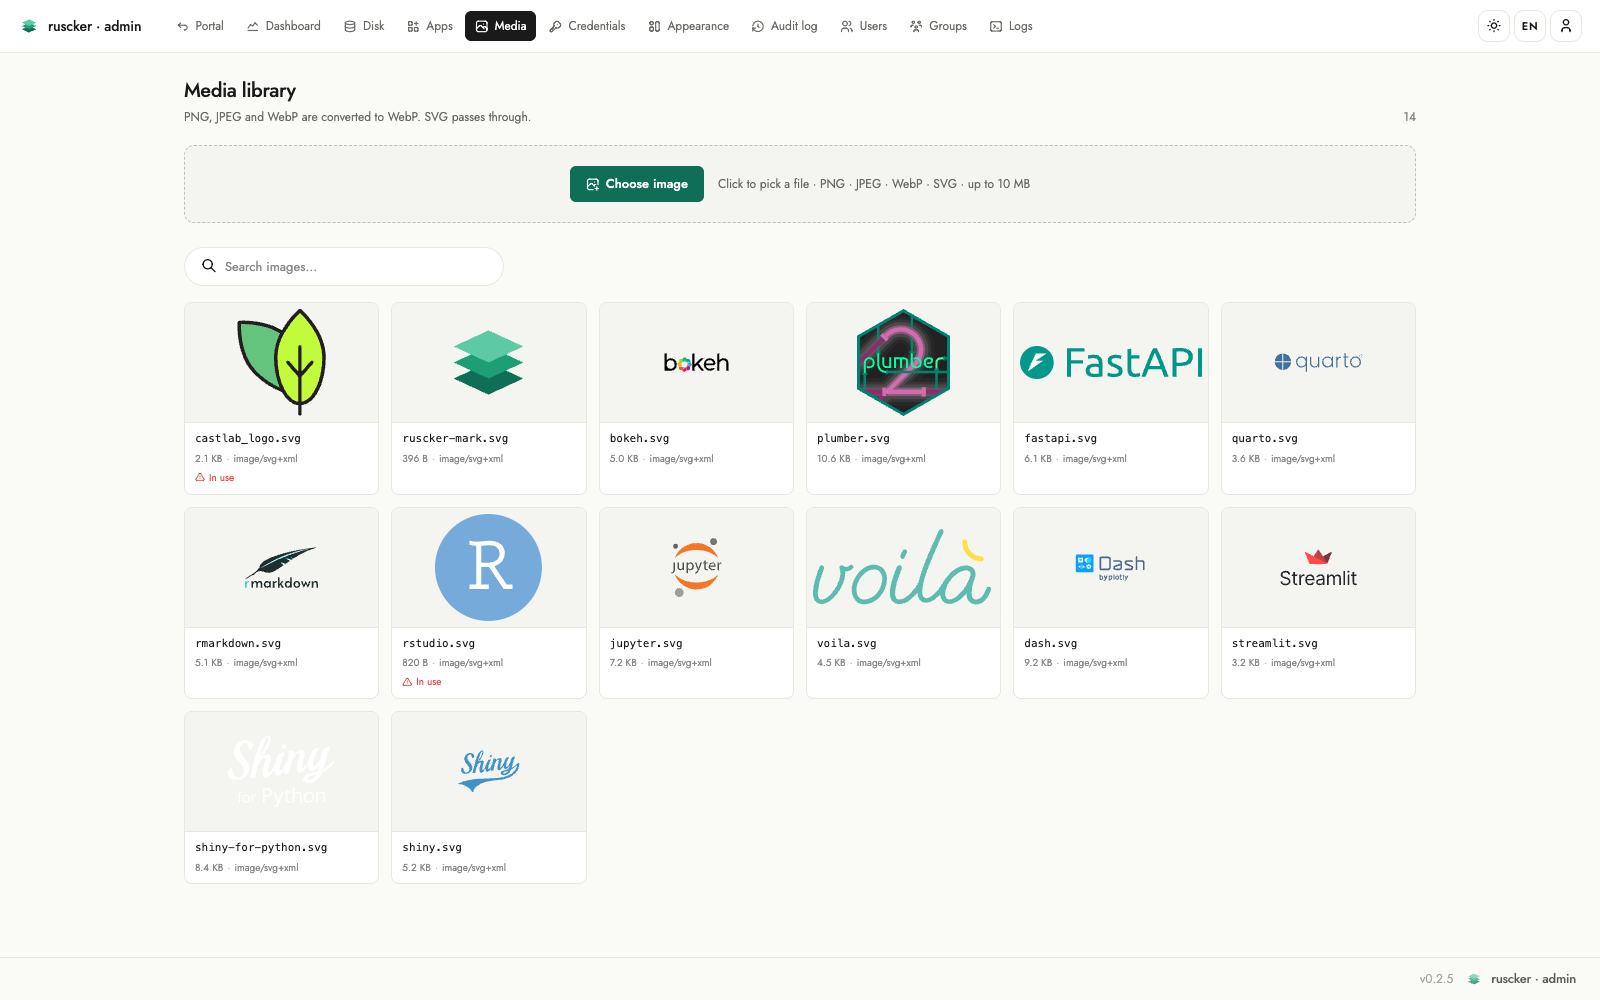
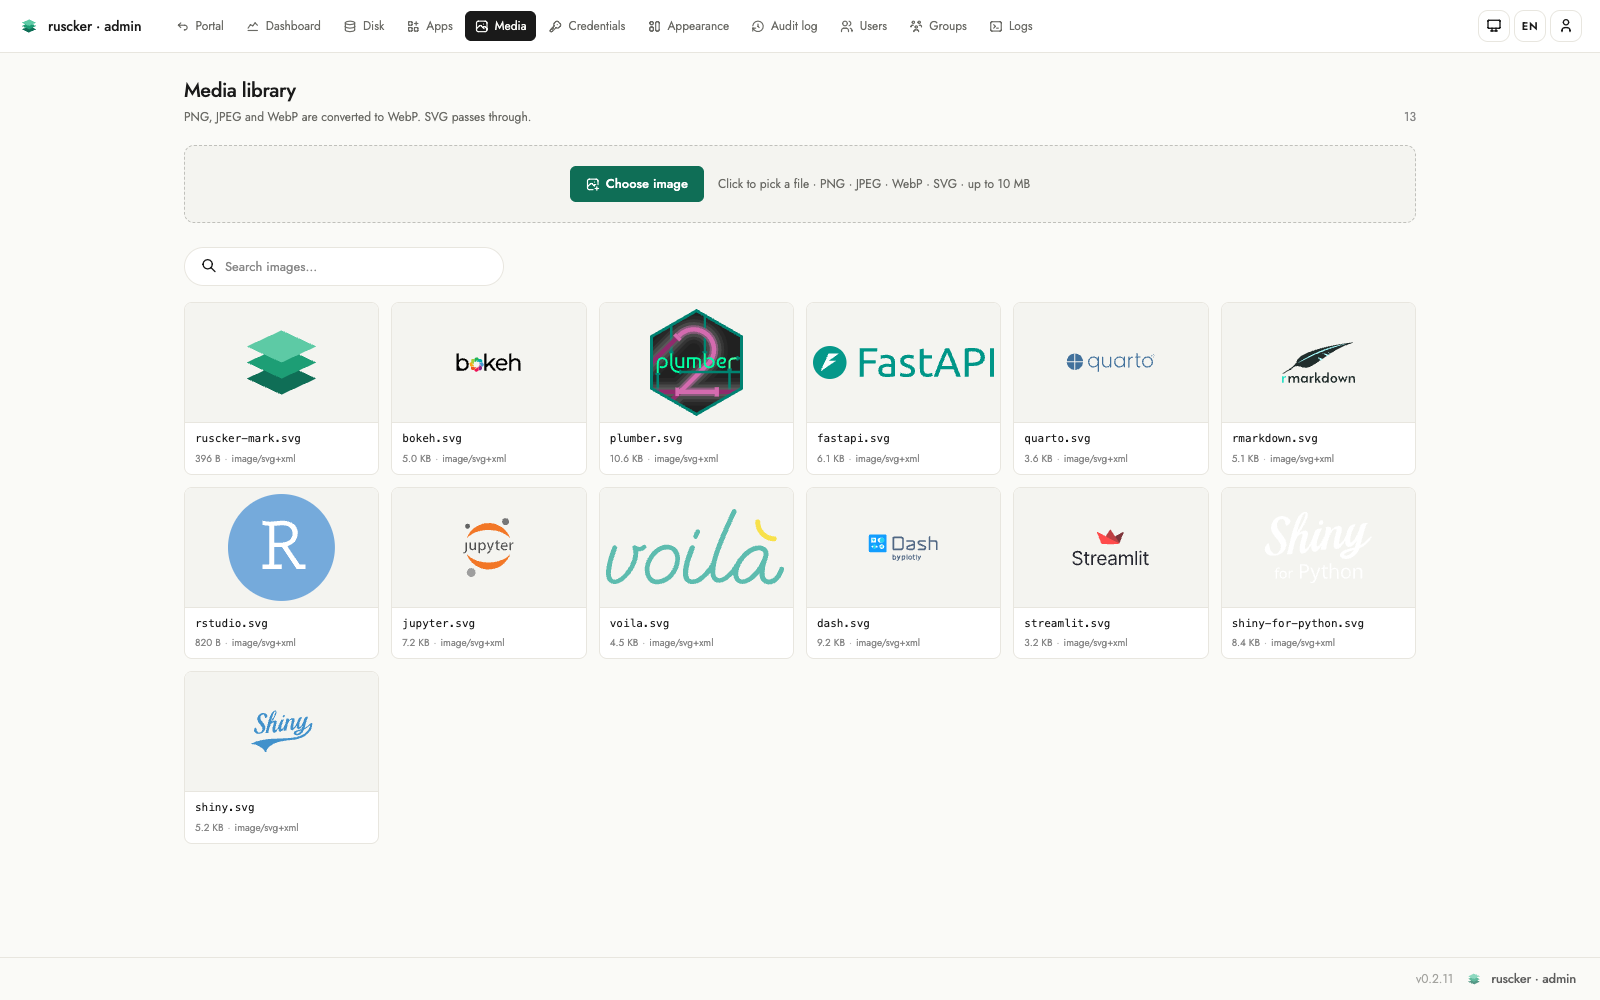
docs: refresh the admin guide + README + all 8 screenshots for v0.2.11
The guide's Apps/Groups/Appearance/Blocks sections catch up with the
v0.2.6–v0.2.11 admin work:

- Apps: the archive toggle (in-place, no scroll jump, row keeps its
  position) and the list delete with confirmation.
- Groups: the public-apps logo chips with the per-type tint cue.
- Appearance: rewritten to the handoff card structure — Logos with the
  inline main-logo picker, the explicit Preset|Solid|Gradient header
  background with per-theme values, the per-theme default card cover
  with the angle dial and Inherited⇄Own pill, Theme & colors with the
  brand swatches and palette mini-previews, the layout tiles, the
  preview's light/dark switch and the Restore-defaults button.
- Blocks: inline editing at the bottom of the Appearance page, slot
  counters and the anchored return.

README: the admin-panel bullet mentions archive/restore and per-theme
landing styling; the test count moves to 400+; the Apps screenshot alt
covers the new actions.

All 8 screenshots recaptured against a v0.2.11 build (light theme,
1600×1000, EN, fresh showcase catalog; the dashboard shows two live
replicas). No hardcoded version strings added outside news.md.

diff --git a/book/src/admin.md b/book/src/admin.md
@@ -72,7 +72,16 @@ has a **featured star** next to the actions: click it to toggle whether
 the app appears in the landing page's *Featured* carousel, inline,
 without opening the editor (solid = featured).
 
-![Apps table: id, name, kind and state columns, plus updated/version, and an Actions column where each row has the featured star (solid amber when featured) next to the edit and duplicate buttons.](images/admin-apps.png)
+The Actions column also carries an **archive toggle** and a **delete**
+button. Archiving deactivates the app in place — its card leaves the
+public portal but the configuration, history and audit trail stay, and
+one more click brings it back. The toggle updates the row right where
+it is (no reload, no scroll jump, and the row keeps its position in the
+list — archiving doesn't count as an "update"). Delete asks for
+confirmation, stops the app's containers and is audited; apps defined
+in the `serve --config` YAML stay read-only here.
+
+![Apps table: id, name, kind and state columns, plus updated/version, and an Actions column where each row has the featured star, edit and duplicate buttons, the archive toggle and a delete button.](images/admin-apps.png)
 
 The add/edit form walks down the page in the order you think about an
 app: **Identity** (id, name, subject), **Kind** (app container /
@@ -123,6 +132,11 @@ with its members and the apps it gates, and lets you edit them in place:
 Edits touch the database-managed users and apps. An app defined in the
 `serve --config` YAML stays read-only here (edit the file for those).
 
+Below the groups, **Public apps** lists every ungated app as a logo
+chip — the thumbnail sits on the catalog's per-type tint colour, so the
+app's kind reads at a glance — with a globe mark; clicking a chip opens
+that app's editor.
+
 ### Media
 Upload images (PNG/JPEG → WebP), served at `/assets/img/<file>`. These
 are the card logos and covers.
@@ -153,40 +167,59 @@ There is no need to inline registry passwords in a spec.
 
 ### Appearance
 Customise the public landing without a custom template. Every control
-is mirrored instantly in a **live portal preview** on the right:
+is mirrored instantly in a **live portal preview** on the right — the
+preview has its own **☀/🌙 switch** so you can inspect both themes
+without changing the saved default, and the action bar carries a
+**"Restore defaults"** button (with confirmation) that resets the
+styling while keeping titles, logos, texts, SEO, custom CSS and HTML
+blocks:
 
-![Appearance editor: control cards for header, branding, catalog layout and visible sections on the left, with a live portal preview pane on the right.](images/admin-appearance.png)
+![Appearance editor: control cards for header texts, logos, header style, catalog cards, theme and layout on the left, with a live portal preview pane (with its own light/dark switch) on the right.](images/admin-appearance.png)
 
-- **Header & branding** — header style presets, a solid/gradient
-  background builder, brand-colour swatches per theme, a default theme
-  (light / dark / auto) for first-time visitors, and the header logo's
-  mode, size and margin.
-- **Catalog** — grid, list or sections layout; comfortable or compact
-  density; a default **card-cover** builder (auto / solid / gradient)
-  for cards without their own cover; toggles for the search box and
-  filter chips.
-- **Colours + intro** — header background/foreground, a per-locale
-  intro paragraph, and an editable footer.
+- **Header** — the portal title, subtitle and footer texts.
+- **Logos** — the **main header logo** in one place: built-in mark,
+  symbol-only, or a custom image picked right there from the Media
+  library, sized by its own sliders. Additional logos go in the header
+  centre/right or the footer, each with alignment, an optional
+  click-through link and a height.
+- **Header style** — the background is one explicit choice: **Preset**
+  (flat / soft / bold tints), **Solid** or **Gradient** — and the
+  custom modes carry separate **light and dark values** (dark inherits
+  light until you set it). Text colour is per-theme too.
+- **Catalog cards** — the default cover behind cards that have no
+  cover of their own: **Auto** keeps each type's tint colour (zero
+  configuration), or paint a **solid / gradient** per theme, with a
+  live cover preview, a draggable **angle dial** and an explicit
+  *Inherited ⇄ Own* pill on the dark side.
+- **Theme & colors** — the default theme (light / dark / auto) for
+  first-time visitors, brand-colour quick swatches (plus a custom
+  pick), and full light/dark palettes with a live mini-preview of
+  background, text and accent.
+- **Catalog layout** — grid, list or sections as large icon tiles,
+  plus a comfortable/compact density bar.
+- **Visible sections** — toggles for the search box, the filter chips
+  and the *Featured* carousel.
+- **Content** — a per-locale intro paragraph (rendered full-width and
+  justified on the portal) and the footer text.
 - **SEO & sharing** — page title, meta description, `og:image`, with a
   live Google-style **search-result preview** that updates as you type.
   The landing `<head>` emits `description` + `og:*` + `twitter:card`.
 - **Analytics & custom code** — pick a provider (GA4 / Plausible /
   Matomo) and paste just the site key — Ruscker builds the snippet and
   widens **only the landing's** CSP for that provider's origins. A raw
-  HTML field remains as the escape hatch for anything else. The custom-CSS and analytics/HTML fields are
-  **syntax-highlighted code editors** (the custom HTML blocks editor too).
-- **Logos** — add logos to the landing **header** or **footer** slot.
-  Each logo has its own **alignment** (left / center / right), an optional
-  **click-through link**, and a **height** in pixels. Multiple logos
-  sharing a slot and alignment render side by side. Images come from the
-  Media library — pick one with the same modal picker used in the spec
-  form.
+  HTML field remains as the escape hatch for anything else. The
+  custom-CSS and analytics/HTML fields are **syntax-highlighted code
+  editors** (the custom HTML blocks editor too).
 
 ### Blocks
 Custom HTML blocks rendered in the landing `top` (after the header) and
-`bottom` (after the card grid) slots. Create/edit/delete, enable/
-disable, and reorder within a slot with the ↑/↓ buttons. Each block can
-declare CSP origins for any third-party content it embeds.
+`bottom` (after the card grid) slots, edited **inline** at the bottom
+of the Appearance page: "+ New block" (or a row's pencil) expands the
+editor right there — name, a Top/Bottom position switch, a
+syntax-highlighted HTML editor, CSP origins for any third-party content
+it embeds, and an active toggle. Rows reorder by drag-and-drop or the
+↑/↓ buttons, each slot shows a block counter, and after saving you land
+back at the blocks section.
 
 > Block and analytics HTML is rendered **verbatim** on the public
 > landing. It's admin-only input — the intentional escape hatch — so

diff --git a/README.md b/README.md
@@ -93,11 +93,12 @@ What's in the box:
   applies per-container CPU/memory limits, and reaps idle ones.
 - **Admin panel** — full apps CRUD (every spec field editable from the
   form, including API/scaling/resource/lifecycle settings, with inline
-  help), image/media library, encrypted credentials store, a
-  landing-page editor (colors, intros, SEO, social meta, analytics,
-  custom HTML blocks), an audit log, **user accounts with Viewer /
-  Editor / Admin roles**, and a live SSE dashboard (CPU/memory
-  sparklines, live-follow logs, stop/restart).
+  help, plus one-click archive/restore from the list), image/media
+  library, encrypted credentials store, a landing-page editor with a
+  live preview (per-theme light/dark styling, logos, intros, SEO,
+  social meta, analytics, custom HTML blocks), an audit log, **user
+  accounts with Viewer / Editor / Admin roles**, and a live SSE
+  dashboard (CPU/memory sparklines, live-follow logs, stop/restart).
 - **Operations** — `/healthz` + `/readyz` probes, graceful shutdown,
   structured (JSON) logging, per-API rate limiting + CORS, request
   body-size limits, an opt-in Prometheus `/metrics` endpoint, and
@@ -106,12 +107,12 @@ What's in the box:
   hardened `systemd` unit, static musl tarballs, a Homebrew tap, and
   cosign-signed release artifacts.
 
-300+ unit + integration tests run green on `cargo test` (no Docker
+400+ unit + integration tests run green on `cargo test` (no Docker
 required); extra feature-gated suites exercise a real Docker daemon
 (`docker-it`) and a full proxy + WebSocket end-to-end run (`e2e`).
 
 <p align="center">
-  <img src="book/src/images/admin-apps.png" alt="The admin Apps table: each spec row with kind/state, and a featured star in the Actions column to toggle landing-page highlighting inline." width="860">
+  <img src="book/src/images/admin-apps.png" alt="The admin Apps table: each spec row with kind/state, and an Actions column with the featured star, edit, duplicate, archive and delete controls." width="860">
   <br><em>Apps catalogue — every spec field editable from the web UI, no YAML.</em>
 </p>
 
